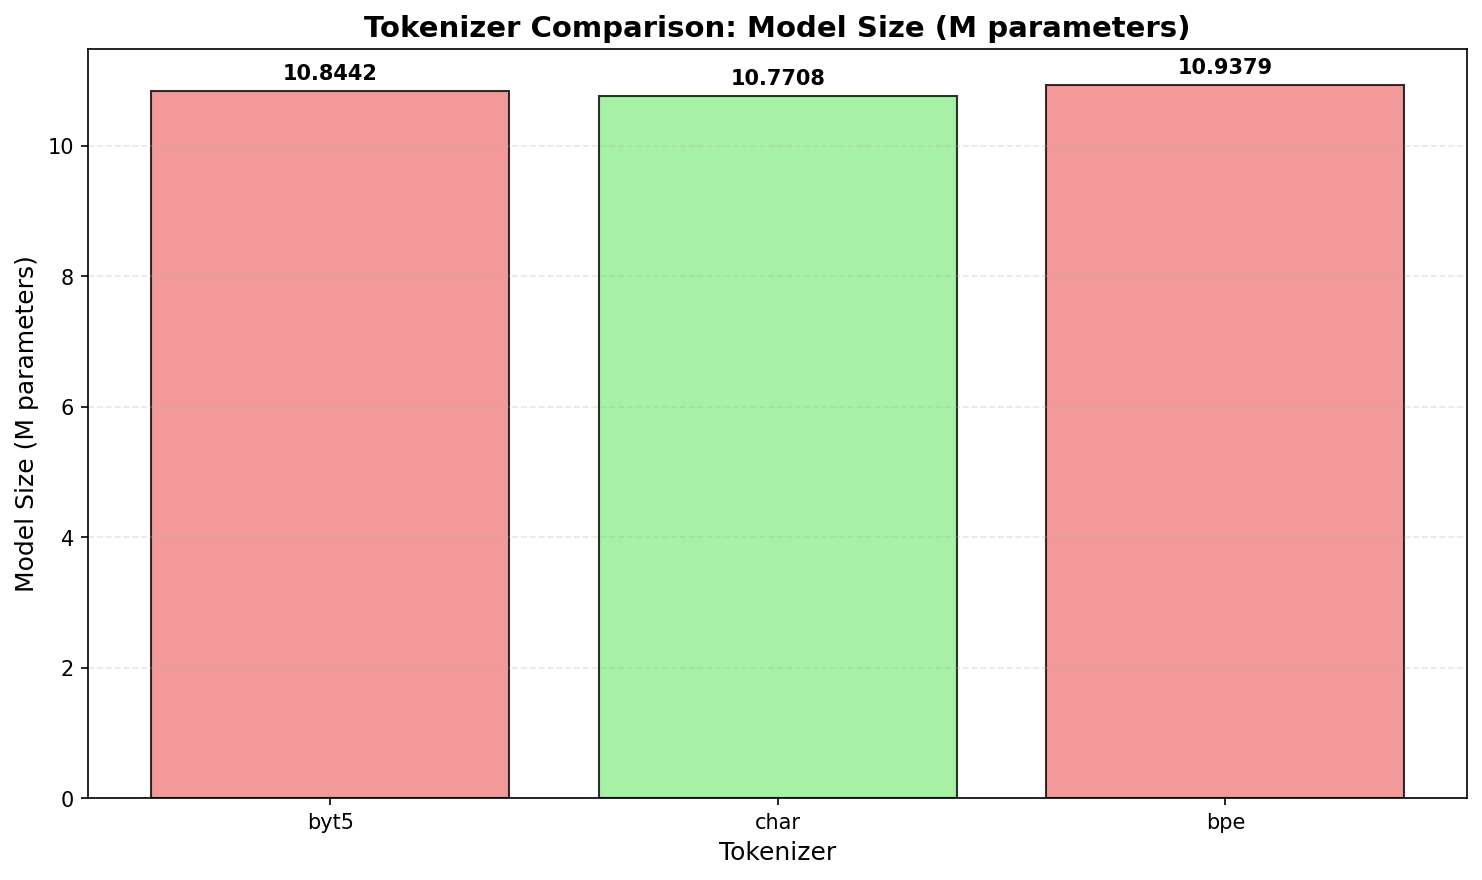
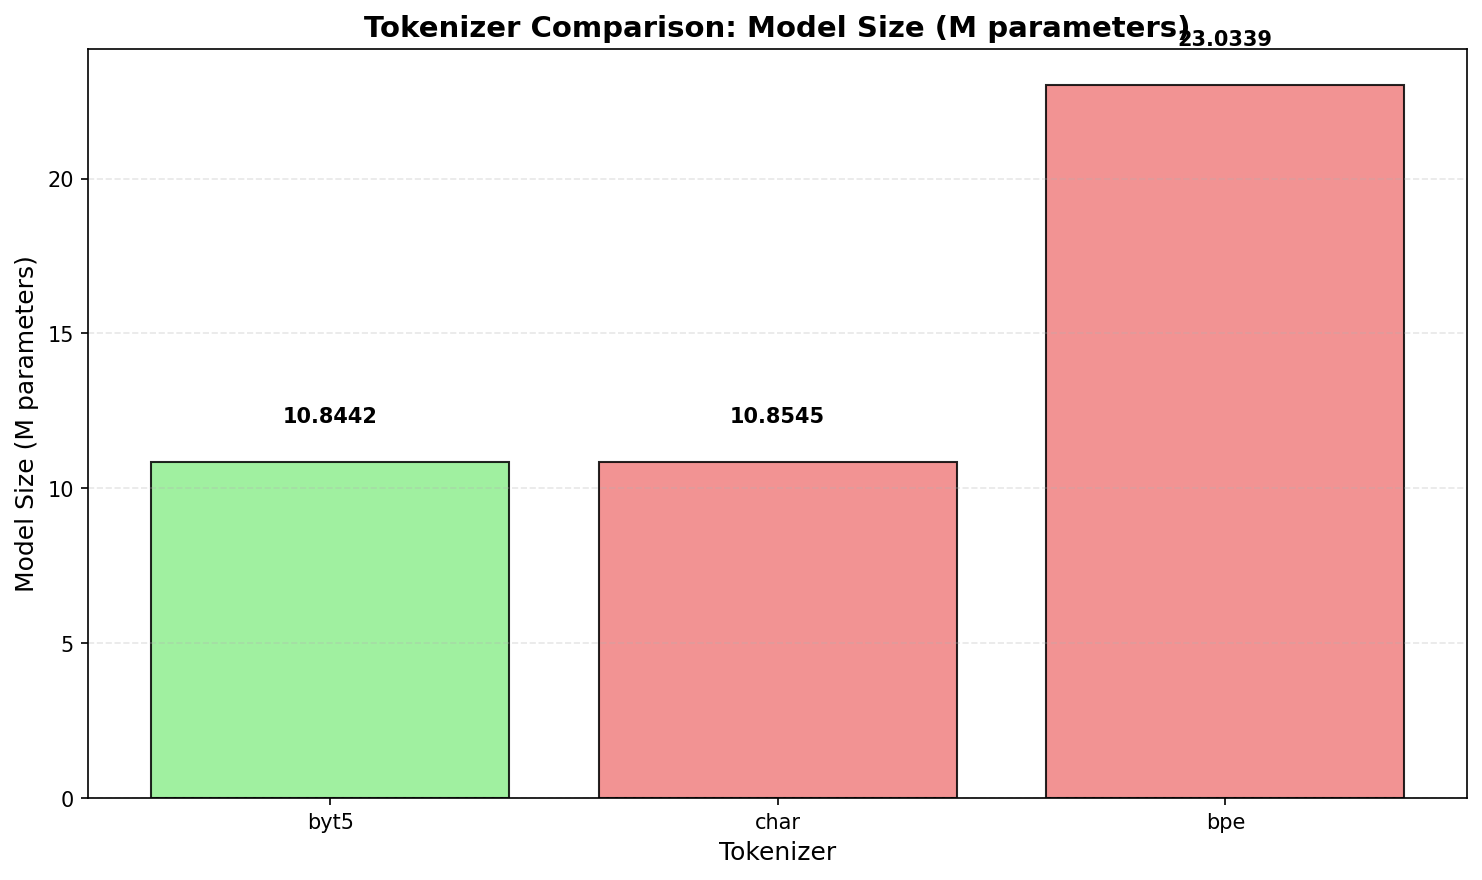
-fixed compare script issues -generated final plots -updated README

diff --git a/utils/compare_tokenizers.py b/utils/compare_tokenizers.py
@@ -13,20 +13,23 @@ def load_metrics(files):
         with open(path, "r", encoding="utf-8") as f:
             rec = json.load(f)
 
-            # Original metrics
-            rec["bits_per_char"] = safe_get(rec, "bits_per_char", float("nan"))
+            # FIX: accept both names
+            rec["bits_per_char"] = safe_get(
+                rec,
+                "bits_per_char",
+                safe_get(rec, "bits_per_character", float("nan"))
+            )
+
             rec["train_steps_per_sec"] = safe_get(rec, "train_steps_per_sec", float("nan"))
             rec["num_params"] = safe_get(rec, "num_params", 0)
             rec["tokenizer"] = safe_get(rec, "tokenizer", "unknown")
             rec["checkpoint"] = safe_get(rec, "checkpoint", path)
-            
-            # NEW: Enhanced metrics support
+
             rec["bits_per_byte"] = safe_get(rec, "bits_per_byte", float("nan"))
             rec["compression_ratio_chars"] = safe_get(rec, "compression_ratio_chars", float("nan"))
             rec["perplexity"] = safe_get(rec, "perplexity", float("nan"))
             rec["loss"] = safe_get(rec, "loss", float("nan"))
-            
-            # Tokenization efficiency
+
             tokenization_eff = safe_get(rec, "tokenization_efficiency", {})
             rec["tokens_per_char"] = safe_get(tokenization_eff, "tokens_per_char", float("nan"))
             rec["chars_per_token"] = safe_get(tokenization_eff, "chars_per_token", float("nan"))
@@ -38,8 +41,7 @@ def print_table(records):
     print("="*70)
     print(" TOKENIZER COMPARISON TABLE")
     print("="*70)
-    
-    # Enhanced header
+
     headers = ["Tokenizer", "Bits/char", "Bits/byte", "Compression", "Perplexity", "Train spd", "Params(M)"]
     print("{:<12} {:>10} {:>10} {:>12} {:>12} {:>10} {:>10}".format(*headers))
     print("-" * 80)
@@ -58,57 +60,64 @@ def print_table(records):
     print("="*70)
 
 def print_detailed_comparison(records):
-    """NEW: Detailed comparison with explanations"""
     print("\n" + "="*70)
     print(" DETAILED ANALYSIS")
     print("="*70)
-    
-    # Find best values (lower is better for most metrics)
-    best_bpc = min(r["bits_per_char"] for r in records)
-    best_bpb = min(r["bits_per_byte"] for r in records)
-    best_ppl = min(r["perplexity"] for r in records)
-    best_comp = max(r["compression_ratio_chars"] for r in records)
-    best_speed = max(r["train_steps_per_sec"] for r in records)
-    
+
+    # Protect min/max from NaN
+    def safe_min(vals):
+        return min([v for v in vals if not np.isnan(v)])
+
+    def safe_max(vals):
+        return max([v for v in vals if not np.isnan(v)])
+
+    best_bpc = safe_min([r["bits_per_char"] for r in records])
+    best_bpb = safe_min([r["bits_per_byte"] for r in records])
+    best_ppl = safe_min([r["perplexity"] for r in records])
+    best_comp = safe_max([r["compression_ratio_chars"] for r in records])
+    best_speed = safe_max([r["train_steps_per_sec"] for r in records])
+
     for r in records:
         print(f"\n--- {r['tokenizer'].upper()} TOKENIZER ---")
-        print(f"  Efficiency:  {r['bits_per_char']:.4f} bits/char {'(best)' if r['bits_per_char'] == best_bpc else ''}")
-        print(f"  Byte eff:    {r['bits_per_byte']:.4f} bits/byte {'(best)' if r['bits_per_byte'] == best_bpb else ''}")
-        print(f"  Compression: {r['compression_ratio_chars']:.2f} chars/token {'(best)' if r['compression_ratio_chars'] == best_comp else ''}")
-        print(f"  Quality:     {r['perplexity']:.2f} perplexity {'(best)' if r['perplexity'] == best_ppl else ''}")
-        print(f"  Speed:       {r['train_steps_per_sec']:.2f} steps/sec { '(best)' if r['train_steps_per_sec'] == best_speed else ''}")
+        print(f"  Efficiency:  {r['bits_per_char']:.4f} {'(best)' if r['bits_per_char']==best_bpc else ''}")
+        print(f"  Byte eff:    {r['bits_per_byte']:.4f} {'(best)' if r['bits_per_byte']==best_bpb else ''}")
+        print(f"  Compression: {r['compression_ratio_chars']:.2f} {'(best)' if r['compression_ratio_chars']==best_comp else ''}")
+        print(f"  Quality:     {r['perplexity']:.2f} {'(best)' if r['perplexity']==best_ppl else ''}")
+        print(f"  Speed:       {r['train_steps_per_sec']:.2f} {'(best)' if r['train_steps_per_sec']==best_speed else ''}")
         print(f"  Tokenization: {r['tokens_per_char']:.3f} tokens/char")
 
 def make_bar_plot(records, metric_key, ylabel, outfile, higher_better=False):
-    """Enhanced plotting with better visuals"""
     labels = [r["tokenizer"] for r in records]
-    values = [r[metric_key] for r in records]
-    
-    # Choose colors based on performance
-    if higher_better:
-        colors = ['lightgreen' if v == max(values) else 'lightcoral' for v in values]
-    else:
-        colors = ['lightgreen' if v == min(values) else 'lightcoral' for v in values]
-    
+    raw_values = [r.get(metric_key, float("nan")) for r in records]
+
+    # Replace NaN with 0 for plotting
+    values = [0 if (v is None or np.isnan(v)) else v for v in raw_values]
+
+    # Colors
+    best_val = max(values) if higher_better else min(values)
+    colors = ['lightgreen' if v == best_val else 'lightcoral' for v in values]
+
     plt.figure(figsize=(10, 6))
-    bars = plt.bar(labels, values, color=colors, alpha=0.8, edgecolor='black')
-    
-    # Add value labels on bars
+    bars = plt.bar(labels, values, color=colors, alpha=0.85, edgecolor='black')
+
+    # Labels above bars
+    pad = max(values) * 0.05 if max(values) != 0 else 0.1
     for bar, value in zip(bars, values):
-        plt.text(bar.get_x() + bar.get_width()/2, bar.get_height() + 0.01 * max(values),
-                f'{value:.4f}', ha='center', va='bottom', fontweight='bold')
-    
+        plt.text(bar.get_x() + bar.get_width()/2,
+                 bar.get_height() + pad,
+                 f'{value:.4f}',
+                 ha='center', va='bottom', fontweight='bold')
+
     plt.ylabel(ylabel, fontsize=12)
     plt.xlabel("Tokenizer", fontsize=12)
     plt.title(f"Tokenizer Comparison: {ylabel}", fontsize=14, fontweight='bold')
     plt.grid(axis='y', alpha=0.3, linestyle='--')
     plt.tight_layout()
     plt.savefig(outfile, dpi=150, bbox_inches='tight')
-    print(f"Saved enhanced plot → {outfile}")
+    print(f"Saved plot → {outfile}")
     plt.close()
 
 def create_comprehensive_chart(records, out_dir):
-    """NEW: Create a comprehensive comparison chart"""
     metrics = [
         ('bits_per_char', 'Bits per Character', False),
         ('bits_per_byte', 'Bits per Byte', False),
@@ -116,40 +125,35 @@ def create_comprehensive_chart(records, out_dir):
         ('perplexity', 'Perplexity', False),
         ('train_steps_per_sec', 'Training Speed', True),
     ]
-    
+
     fig, axes = plt.subplots(2, 3, figsize=(15, 10))
     axes = axes.flatten()
-    
+
     for idx, (metric_key, title, higher_better) in enumerate(metrics):
-        if idx >= len(axes):
-            break
-            
         labels = [r["tokenizer"] for r in records]
-        values = [r[metric_key] for r in records]
-        
-        # Color coding
-        if higher_better:
-            colors = ['lightgreen' if v == max(values) else 'lightcoral' for v in values]
-        else:
-            colors = ['lightgreen' if v == min(values) else 'lightcoral' for v in values]
-        
+        raw_values = [r.get(metric_key, float("nan")) for r in records]
+        values = [0 if (v is None or np.isnan(v)) else v for v in raw_values]
+
+        best_val = max(values) if higher_better else min(values)
+        colors = ['lightgreen' if v == best_val else 'lightcoral' for v in values]
+
         bars = axes[idx].bar(labels, values, color=colors, alpha=0.8, edgecolor='black')
         axes[idx].set_title(title, fontweight='bold')
-        axes[idx].set_ylabel(title.split('(')[0] if '(' in title else title)
-        
-        # Add value labels
+
+        pad = max(values) * 0.05 if max(values) != 0 else 0.1
         for bar, value in zip(bars, values):
-            axes[idx].text(bar.get_x() + bar.get_width()/2, bar.get_height() + 0.01 * max(values),
-                          f'{value:.4f}', ha='center', va='bottom', fontsize=9)
-    
-    # Remove empty subplots
+            axes[idx].text(bar.get_x() + bar.get_width()/2,
+                           bar.get_height() + pad,
+                           f'{value:.4f}',
+                           ha='center', va='bottom', fontsize=9)
+
     for idx in range(len(metrics), len(axes)):
         fig.delaxes(axes[idx])
-    
+
     plt.tight_layout()
-    comprehensive_path = os.path.join(out_dir, "comprehensive_comparison.png")
-    plt.savefig(comprehensive_path, dpi=150, bbox_inches='tight')
-    print(f"Saved comprehensive chart → {comprehensive_path}")
+    output_path = os.path.join(out_dir, "comprehensive_comparison.png")
+    plt.savefig(output_path, dpi=150, bbox_inches='tight')
+    print(f"Saved comprehensive chart → {output_path}")
     plt.close()
 
 def main():
@@ -162,33 +166,31 @@ def main():
     os.makedirs(args.out_dir, exist_ok=True)
     records = load_metrics(args.metrics_files)
 
-    # Print comparisons
     print_table(records)
-    
+
     if args.comprehensive:
         print_detailed_comparison(records)
         create_comprehensive_chart(records, args.out_dir)
 
-    # Generate individual plots
     make_bar_plot(records, "bits_per_char", "Bits per Character (lower better)",
-                  os.path.join(args.out_dir, "bits_per_char.png"), higher_better=False)
-    
+                  os.path.join(args.out_dir, "bits_per_char.png"))
+
     make_bar_plot(records, "bits_per_byte", "Bits per Byte (lower better)",
-                  os.path.join(args.out_dir, "bits_per_byte.png"), higher_better=False)
-    
+                  os.path.join(args.out_dir, "bits_per_byte.png"))
+
     make_bar_plot(records, "compression_ratio_chars", "Compression Ratio (higher better)",
                   os.path.join(args.out_dir, "compression_ratio.png"), higher_better=True)
-    
+
     make_bar_plot(records, "perplexity", "Perplexity (lower better)",
-                  os.path.join(args.out_dir, "perplexity.png"), higher_better=False)
-    
+                  os.path.join(args.out_dir, "perplexity.png"))
+
     make_bar_plot(records, "train_steps_per_sec", "Training Speed (higher better)",
                   os.path.join(args.out_dir, "training_speed.png"), higher_better=True)
-    
-    # Model size plot
-    pm_vals = [{"tokenizer": r["tokenizer"], "size_m": r["num_params"]/1e6} for r in records]
-    make_bar_plot(pm_vals, "size_m", "Model Size (M parameters)",
-                  os.path.join(args.out_dir, "model_size.png"), higher_better=False)
+
+    # Model size
+    size_records = [{"tokenizer": r["tokenizer"], "size_m": r["num_params"]/1e6} for r in records]
+    make_bar_plot(size_records, "size_m", "Model Size (M parameters)",
+                  os.path.join(args.out_dir, "model_size.png"))
 
     print(f"\nAll plots saved to: {args.out_dir}/")
 
